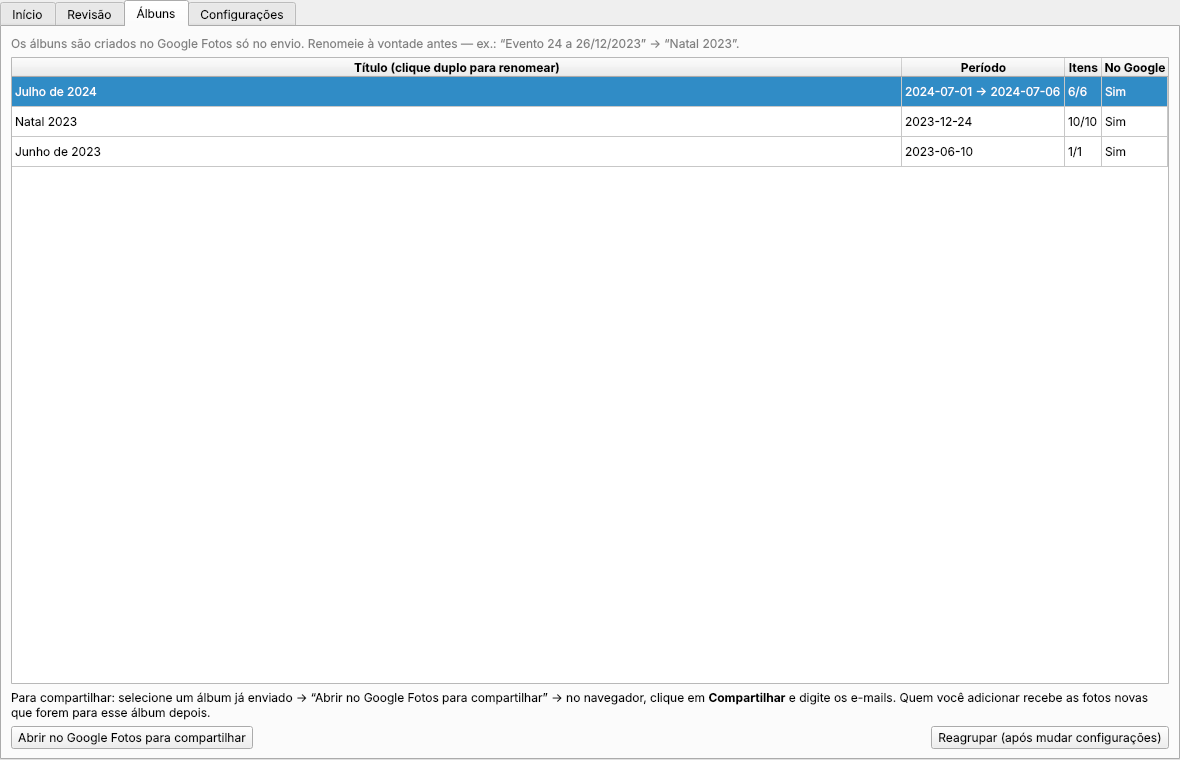
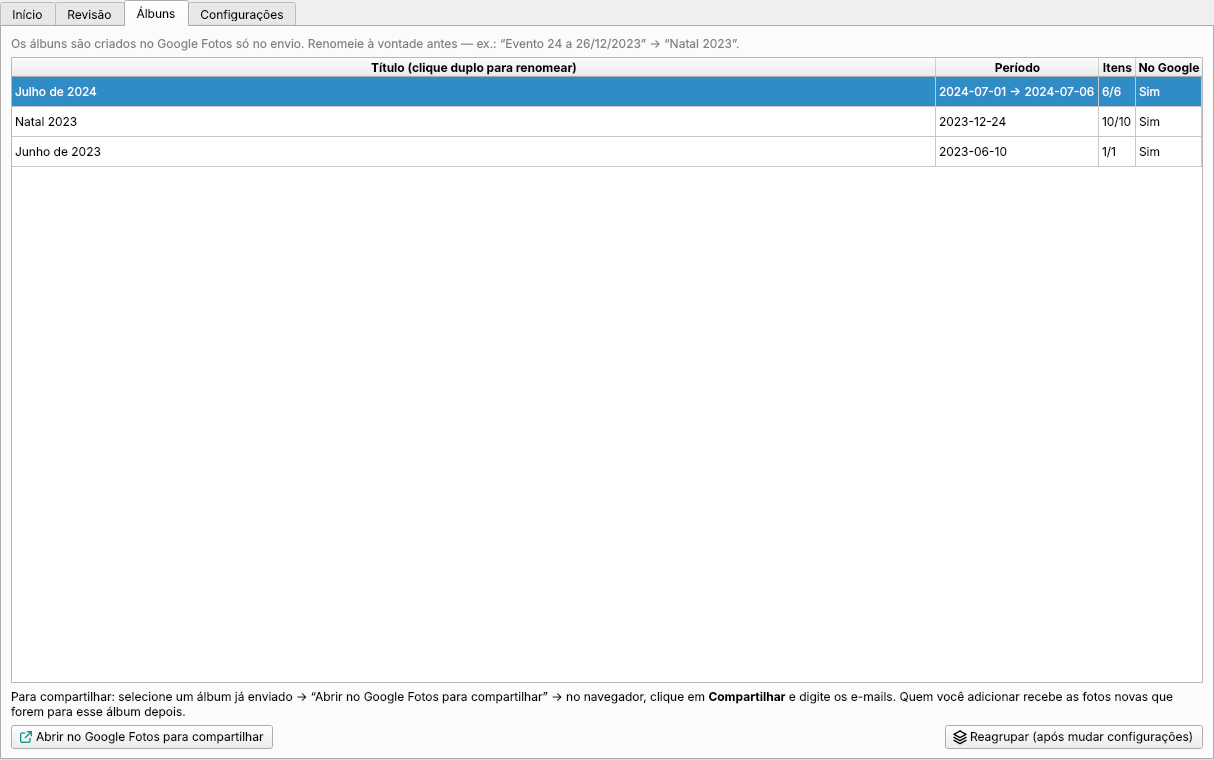
Ícones nos botões
Conjunto próprio de ícones de traço (app/gui/icons.py, sem arquivos extras para
empacotar). A cor segue o tema do sistema; ações principais em verde-água e
ações que apagam histórico em vermelho, com tons mais claros no tema escuro.
Prints das telas atualizados.

Claude-Session: https://claude.ai/code/session_01FBwAdzVyreEYUntAKQGqkd

diff --git a/app/gui/icons.py b/app/gui/icons.py
@@ -1,0 +1,85 @@
+"""Ícones dos botões, desenhados aqui mesmo (traço simples, 24×24).
+
+Ficam no código em vez de arquivos para não depender do empacotamento. A cor vem do tema do
+sistema (claro ou escuro) — exceto nos destaques: ação principal (verde-água do mascote) e ações
+que apagam histórico (vermelho).
+"""
+from __future__ import annotations
+
+from PySide6.QtCore import QByteArray, QRectF, Qt
+from PySide6.QtGui import QColor, QIcon, QPainter, QPalette, QPixmap
+from PySide6.QtSvg import QSvgRenderer
+from PySide6.QtWidgets import QApplication
+
+PATHS: dict[str, str] = {
+    "folder": '<path d="M3 7a2 2 0 0 1 2-2h4l2 2h8a2 2 0 0 1 2 2v8a2 2 0 0 1-2 2H5a2 2 0 0 1-2-2z"/>',
+    "analyze": '<circle cx="10.5" cy="10.5" r="6.5"/><path d="M20 20l-4.8-4.8"/>'
+               '<path d="M10.5 7.5v6M7.5 10.5h6"/>',
+    "upload": '<path d="M7 18H6.5a4.5 4.5 0 0 1-.4-9 6 6 0 0 1 11.6 1.2A4 4 0 0 1 17.5 18H17"/>'
+              '<path d="M12 21v-9M8.5 15.5 12 12l3.5 3.5"/>',
+    "stop": '<rect x="6" y="6" width="12" height="12" rx="2"/>',
+    "retry": '<path d="M20 12a8 8 0 1 1-2.4-5.7"/><path d="M20 4v5h-5"/>',
+    "eraser": '<path d="M3.5 14.5 13 5a2 2 0 0 1 2.8 0l3.2 3.2a2 2 0 0 1 0 2.8L12 18H7z"/>'
+              '<path d="M8.5 9.5l6 6M7 21h13"/>',
+    "check": '<path d="M5 12.5l4.5 4.5L19 7.5"/>',
+    "skip": '<circle cx="12" cy="12" r="8.5"/><path d="M6 6l12 12"/>',
+    "auto": '<path d="M9 14 4 9l5-5"/><path d="M4 9h10.5a5.5 5.5 0 0 1 0 11H11"/>',
+    "tag": '<path d="M3 11.6V4a1 1 0 0 1 1-1h7.6a1 1 0 0 1 .7.3l8.4 8.4a1 1 0 0 1 0 1.4l-7.6 7.6a1 1 0 0 1-1.4 0'
+           'l-8.4-8.4a1 1 0 0 1-.3-.7z"/><circle cx="7.5" cy="7.5" r="1.3"/>',
+    "notdup": '<rect x="2.5" y="5" width="8" height="14" rx="1.5"/><rect x="13.5" y="5" width="8" height="14" rx="1.5"/>'
+              '<path d="M5 15l2.5-3 2 2M16 15l2-2.5 1.5 2"/>',
+    "more": '<path d="M6 9.5l6 6 6-6"/>',
+    "share": '<path d="M14 4h6v6M20 4l-9 9"/><path d="M18 14v4a2 2 0 0 1-2 2H6a2 2 0 0 1-2-2V8a2 2 0 0 1 2-2h4"/>',
+    "regroup": '<path d="M12 3 21 8l-9 5-9-5z"/><path d="M3 12.5l9 5 9-5M3 17l9 5 9-5"/>',
+    "download": '<path d="M12 4v11M7 10l5 5 5-5M5 20h14"/>',
+    "file": '<path d="M14 3H6a2 2 0 0 0-2 2v14a2 2 0 0 0 2 2h12a2 2 0 0 0 2-2V9z"/><path d="M14 3v6h6"/>'
+            '<circle cx="9.5" cy="15" r="2"/><path d="M11.5 15h5M15 15v2"/>',
+    "login": '<path d="M10 17l5-5-5-5M15 12H3"/><path d="M14 4h4a2 2 0 0 1 2 2v12a2 2 0 0 1-2 2h-4"/>',
+    "logout": '<path d="M15 17l5-5-5-5M20 12H9"/><path d="M10 4H6a2 2 0 0 0-2 2v12a2 2 0 0 0 2 2h4"/>',
+    "trash": '<path d="M4 7h16M9 7V4h6v3M6 7l1 13h10l1-13M10 11v5M14 11v5"/>',
+    "save": '<path d="M5 3h11l5 5v11a2 2 0 0 1-2 2H5a2 2 0 0 1-2-2V5a2 2 0 0 1 2-2z"/><path d="M7 3v5h8V3M7 21v-7h10v7"/>',
+    "open": '<rect x="3" y="4" width="18" height="16" rx="2"/><path d="M3 9h18"/>',
+    "quit": '<path d="M12 3v9"/><path d="M6.3 6.6a8 8 0 1 0 11.4 0"/>',
+}
+
+ACCENT = "#0d9488"   # verde-água do mascote: ações principais
+DANGER = "#dc2626"   # apaga histórico (nunca arquivos)
+SIZES = (16, 20, 24, 32, 48)
+
+
+def _svg(name: str, color: str) -> bytes:
+    return (
+        '<svg xmlns="http://www.w3.org/2000/svg" viewBox="0 0 24 24" fill="none" '
+        f'stroke="{color}" stroke-width="2" stroke-linecap="round" stroke-linejoin="round">'
+        f'{PATHS[name]}</svg>'
+    ).encode()
+
+
+def _pixmap(name: str, color: str, size: int) -> QPixmap:
+    pm = QPixmap(size, size)
+    pm.fill(Qt.transparent)
+    painter = QPainter(pm)
+    painter.setRenderHint(QPainter.Antialiasing)
+    QSvgRenderer(QByteArray(_svg(name, color))).render(painter, QRectF(0, 0, size, size))
+    painter.end()
+    return pm
+
+
+def icon(name: str, tone: str | None = None) -> QIcon:
+    """tone: None (cor do texto do tema), "accent" ou "danger"."""
+    pal = QApplication.palette()
+    dark = pal.color(QPalette.Window).lightness() < 128  # tema escuro: tons mais claros
+    tones = {"accent": "#2dd4bf" if dark else ACCENT, "danger": "#f87171" if dark else DANGER}
+    normal = tones.get(tone) or pal.color(QPalette.ButtonText).name()
+    disabled = pal.color(QPalette.Disabled, QPalette.ButtonText)
+    if disabled.alpha() == 255 and disabled.name() == pal.color(QPalette.ButtonText).name():
+        disabled = QColor(150, 150, 150)  # alguns temas não definem a cor de desativado
+    ic = QIcon()
+    for s in SIZES:
+        ic.addPixmap(_pixmap(name, normal, s), QIcon.Normal)
+        ic.addPixmap(_pixmap(name, disabled.name(), s), QIcon.Disabled)
+    return ic
+
+
+def set_icon(widget, name: str, tone: str | None = None) -> None:
+    widget.setIcon(icon(name, tone))

diff --git a/app/gui/tabs.py b/app/gui/tabs.py
@@ -15,6 +15,7 @@ from PySide6.QtWidgets import (
 from .. import autostart, classifier, db, google_photos
 from ..config import CATEGORIES, SOURCES, TOKEN_PATH, Config, resource, wants_upload
 from ..i18n import LANGUAGES, _, language
+from .icons import set_icon
 from .workers import ThumbJob
 
 PAGE = 300
@@ -67,6 +68,10 @@ class InicioTab(QWidget):
                                      "(não apaga nenhum arquivo)."))
         self.btn_forget.clicked.connect(lambda: self.forget_folder.emit())
         self.btn_stop.setEnabled(False)
+        for b, name, tone in ((self.btn_folder, "folder", None), (self.btn_analyze, "analyze", "accent"),
+                              (self.btn_upload, "upload", "accent"), (self.btn_stop, "stop", None),
+                              (self.btn_retry, "retry", None), (self.btn_forget, "eraser", "danger")):
+            set_icon(b, name, tone)
         for b, sig in ((self.btn_folder, self.choose_folder), (self.btn_analyze, self.analyze),
                        (self.btn_upload, self.upload), (self.btn_stop, self.stop),
                        (self.btn_retry, self.retry_errors)):
@@ -198,6 +203,10 @@ class RevisaoTab(QWidget):
         btn_skip.clicked.connect(lambda: self._set_decision("skip"))
         btn_auto.clicked.connect(lambda: self._set_decision(None))
         btn_move.clicked.connect(self._move_category)
+        for b, name, tone in ((btn_send, "check", "accent"), (btn_skip, "skip", None), (btn_auto, "auto", None),
+                              (btn_move, "tag", None), (btn_notdup, "notdup", None),
+                              (btn_forget, "eraser", "danger"), (self.btn_more, "more", None)):
+            set_icon(b, name, tone)
 
         bottom = QHBoxLayout()
         for w in (btn_send, btn_skip, btn_auto, QLabel(" | "), self.move_combo, btn_move,
@@ -419,6 +428,8 @@ class AlbunsTab(QWidget):
         self.btn_share.clicked.connect(self._open_album)
         btn = QPushButton(_("Reagrupar (após mudar configurações)"))
         btn.clicked.connect(lambda: self.regroup.emit())
+        set_icon(self.btn_share, "share", "accent")
+        set_icon(btn, "regroup")
         share_hint = QLabel(_(
             "Para compartilhar: selecione um álbum já enviado → “Abrir no Google Fotos para "
             "compartilhar” → no navegador, clique em <b>Compartilhar</b> e digite os e-mails. "
@@ -534,6 +545,7 @@ class ConfigTab(QWidget):
         il.addRow(self.ai_status)
         self.btn_ai = QPushButton(_("Baixar modelo de IA (~96 MB)"))
         self.btn_ai.clicked.connect(lambda: self.download_ai.emit())
+        set_icon(self.btn_ai, "download", "accent")
         il.addRow(self.btn_ai)
 
         proc = QGroupBox(_("Álbuns"))
@@ -585,6 +597,9 @@ class ConfigTab(QWidget):
         b2.clicked.connect(lambda: self.connect_google.emit())
         b3.clicked.connect(self._disconnect)
         self._busy_buttons = [b1, b2, b3]
+        set_icon(b1, "file")
+        set_icon(b2, "login", "accent")
+        set_icon(b3, "logout")
         row = QHBoxLayout()
         for b in (b1, b2, b3):
             row.addWidget(b)
@@ -600,11 +615,13 @@ class ConfigTab(QWidget):
         btn_clear = QPushButton(_("Limpar todo o histórico…"))
         btn_clear.clicked.connect(self._forget_all)
         self._busy_buttons.append(btn_clear)
+        set_icon(btn_clear, "trash", "danger")
         hl.addWidget(hist_lbl, 1)
         hl.addWidget(btn_clear)
 
         save = QPushButton(_("Salvar configurações"))
         save.clicked.connect(self._save)
+        set_icon(save, "save", "accent")
 
         lay = QVBoxLayout(self)
         top = QHBoxLayout()

diff --git a/app/gui/main_window.py b/app/gui/main_window.py
@@ -16,6 +16,7 @@ from .. import __version__, db, google_photos, pipeline
 from ..config import APP_DIR, APP_NAME, LOG_PATH, TOKEN_PATH, Config, resource
 from ..drive_watcher import DriveWatcher
 from ..i18n import _
+from .icons import icon as make_icon
 from .tabs import AlbunsTab, ConfigTab, InicioTab, RevisaoTab
 from .workers import Job
 
@@ -70,8 +71,9 @@ class MainWindow(QMainWindow):
         # bandeja
         self.tray = QSystemTrayIcon(icon, self)
         menu = QMenu()
-        for text, slot in ((_("Abrir"), self.show_normal), (_("Parar tarefa"), self.stop_job), (_("Sair"), self.quit_app)):
-            act = QAction(text, self)
+        for text, slot, name in ((_("Abrir"), self.show_normal, "open"), (_("Parar tarefa"), self.stop_job, "stop"),
+                                 (_("Sair"), self.quit_app, "quit")):
+            act = QAction(make_icon(name), text, self)
             act.triggered.connect(slot)
             menu.addAction(act)
         self.tray.setContextMenu(menu)
